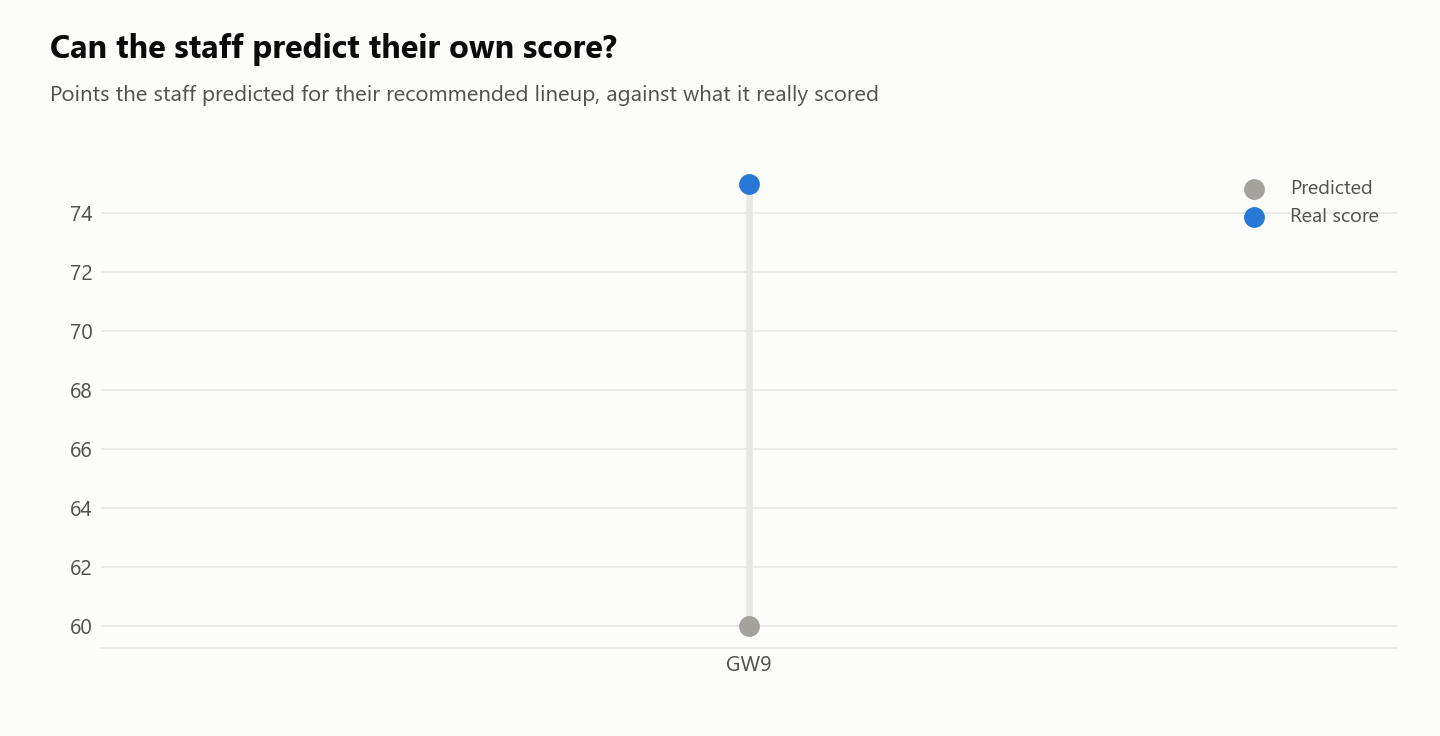
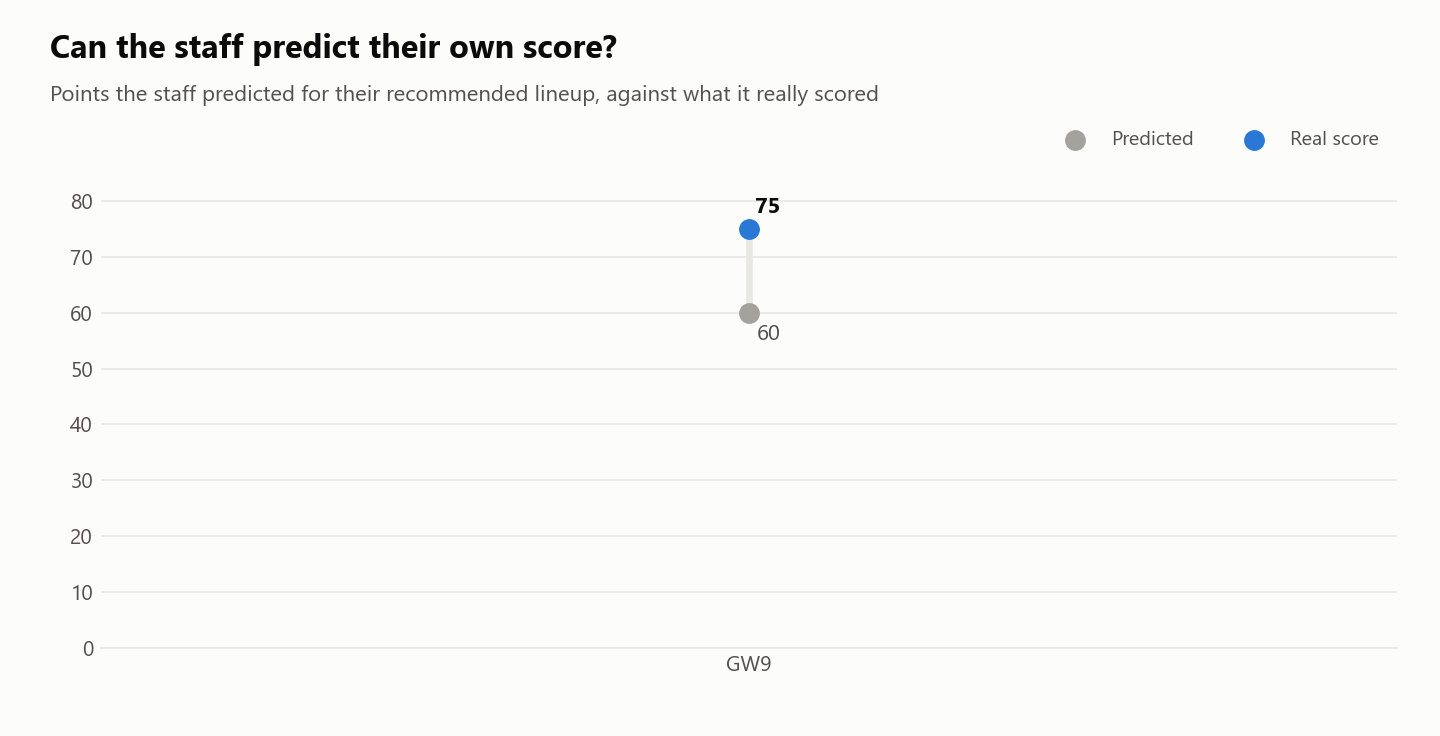
One combined score chart, charts with room to breathe, goals in plain words
Weeks are grouped as my own way or relying on the team. World ranks are no longer published.

diff --git a/export_results.py b/export_results.py
@@ -5,11 +5,11 @@ The system itself runs in a private working folder; this repository is the
 public copy. Each week, after the review run has scored the gameweek, this
 script reads that folder (read-only) and rewrites:
 
-    results/weekly.csv                 points, score /10, top-100 and world average, rank
+    results/weekly.csv                 points, score /10, top-100 and world average
     results/staff_vs_baseline.csv      staff's recommended lineup v what I played v doing nothing
     results/league_gaps.csv            the gap to each rival team after every gameweek
     results/forecasts.csv              the staff's predicted points v the real score (from GW9)
-    results/goals.csv                  each week's two goals, met or missed (from GW10)
+    results/goals.csv                  each week's two goals in plain words, met or missed
     results/*.png                      the charts in the README
     README.md                          the Findings section, between the RESULTS markers
 
@@ -97,21 +97,17 @@ def _team_names(text: str) -> str:
 
 
 def goals() -> list[dict]:
-    """Each week's two goals from the private season plan, with real names swapped for team names."""
-    text = (LIVE / "season_plan.md").read_text(encoding="utf-8")
-    if "## 6. Weekly goals" not in text:
+    """Each played week's two goals in plain words, from the short file the review writes.
+
+    Real names are swapped for team names. A week appears only once it has a result.
+    """
+    path = LIVE / "goals_public.json"
+    if not path.exists():
         return []
-    block = text[text.index("## 6. Weekly goals"):]
-    rows = []
-    for line in block.splitlines()[1:]:
-        if line.startswith("## "):
-            break
-        cells = [c.strip() for c in line.strip().strip("|").split("|")]
-        # A week with no result yet has not been played: it is neither shown nor counted.
-        if len(cells) >= 4 and _first_int(cells[0]) is not None and "---" not in line and cells[3]:
-            rows.append({"gw": _first_int(cells[0]), "goal_1": _team_names(cells[1]),
-                         "goal_2": _team_names(cells[2]), "result": _team_names(cells[3])})
-    return rows
+    data = json.loads(path.read_text(encoding="utf-8"))
+    return [{"gw": int(gw), "goal": _team_names(g["goal"]), "met": bool(g["met"]),
+             "result": _team_names(g.get("result", ""))}
+            for gw in sorted(data, key=int) for g in data[gw]]
 
 
 def advice_use() -> dict[int, str]:
@@ -199,11 +195,10 @@ def chart_score(plt, weeks: list[dict], use: dict[int, str]) -> None:
     """Score out of 10, grouped by whether I played the staff's advice."""
     fig, ax = _frame(plt, "Did I do better when I used the AI's advice?",
                      "Score out of 10 = the share of all ~11 million FPL managers I beat that gameweek")
-    groups = [("No advice yet", "none", PRE), ("Used the advice", "used", BLUE),
-              ("Went my own way", "own", ORANGE)]
+    groups = [("Went my own way", ("none", "own"), ORANGE), ("Relied on the team", ("used",), BLUE)]
     x, ticks, labels = 0.0, [], []
     for title, key, col in groups:
-        wk = [w for w in weeks if use.get(w["gw"], "none") == key]
+        wk = [w for w in weeks if use.get(w["gw"], "none") in key]
         if not wk:
             continue
         xs = [x + i for i in range(len(wk))]
@@ -217,19 +212,18 @@ def chart_score(plt, weeks: list[dict], use: dict[int, str]) -> None:
         ax.hlines(m, xs[0] - 0.42, xs[-1] + 0.42, colors=INK, linestyles=(0, (4, 3)),
                   linewidth=1.3, zorder=4)
         mid = (xs[0] + xs[-1]) / 2
-        ax.text(mid, 10.25, title, ha="center", fontsize=10, color=col if key != "none" else MUTED,
-                fontweight="bold")
-        ax.text(mid, 9.65, f"average {m:.1f}  ·  {len(wk)} week{'s' if len(wk) > 1 else ''}",
+        ax.text(mid, 12.5, title, ha="center", fontsize=10, color=col, fontweight="bold")
+        ax.text(mid, 11.75, f"average {m:.1f}  ·  {len(wk)} week{'s' if len(wk) > 1 else ''}",
                 ha="center", fontsize=9, color=MUTED)
         ticks += xs
         labels += [f"GW{w['gw']}" for w in wk]
         x = xs[-1] + 1.9
     ax.set_xticks(ticks, labels)
-    ax.set_ylim(0, 10.9)
-    ax.set_yticks([0, 2, 4, 6, 8])
+    ax.set_ylim(0, 13.2)              # bars and their labels stop at 11; the headings sit above that
+    ax.set_yticks([0, 2, 4, 6, 8, 10])
     ax.set_xlim(-0.7, x - 1.2)
-    fig.text(0.035, 0.03, "Used = my team matched a staff lineup to within one player, same captain. "
-             "Dashed line = the group's average.", fontsize=8.5, color=MUTED)
+    fig.text(0.035, 0.03, "Relied on the team = within one player of a staff lineup, same captain. "
+             "My own way includes GW1-3. Dashed line = average.", fontsize=8.5, color=MUTED)
     _save(fig, "score_by_advice.png")
     plt.close(fig)
 
@@ -250,14 +244,15 @@ def chart_staff(plt, staff: list[dict]) -> None:
             ax.text(b.get_x() + b.get_width() / 2, y, f"{v:+d}" if v else "0", ha="center",
                     va="bottom" if v >= 0 else "top", fontsize=9, color=INK)
     ax.axhline(0, color=MUTED, linewidth=1, zorder=4)
-    ax.text(gws[-1] + 0.55, 0, "doing\nnothing", va="center", fontsize=8.5, color=MUTED)
+    ax.text(gws[-1] + 0.55, 0, "doing\nnothing", va="center", fontsize=8.5, color=MUTED, zorder=5,
+            bbox=dict(boxstyle="square,pad=0.15", facecolor=SURFACE, edgecolor="none"))
     lo, hi = min(s + m), max(s + m)
-    ax.set_ylim(min(lo - 4, -5), hi + 5)
+    ax.set_ylim(min(lo - 4, -5), hi + max(5, 0.12 * (hi - lo)))
     ax.set_xlim(gws[0] - 0.6, gws[-1] + 0.95)
     ax.set_xticks(gws, [f"GW{g}" for g in gws])
     ts, tm = sum(s), sum(m)
-    ax.legend(frameon=False, loc="upper right", fontsize=9, labelcolor=MUTED, ncols=2,
-              bbox_to_anchor=(1.0, 1.02))
+    fig.legend(*ax.get_legend_handles_labels(), frameon=False, loc="center right", fontsize=9,
+               labelcolor=MUTED, ncols=2, bbox_to_anchor=(0.97, 0.81))
     fig.text(0.035, 0.825, f"Total: staff {ts:+d} points · me {tm:+d} points", fontsize=10,
              color=INK, va="top", fontweight="bold")
     _save(fig, "staff_vs_doing_nothing.png")
@@ -326,7 +321,17 @@ def chart_forecasts(plt, rows: list[dict]) -> None:
         ax.plot([r["gw"], r["gw"]], [r["predicted"], r["actual"]], color=GRID, linewidth=3, zorder=2)
     ax.scatter(gws, [r["predicted"] for r in rows], s=70, color=FAINT, zorder=3, label="Predicted")
     ax.scatter(gws, [r["actual"] for r in rows], s=70, color=BLUE, zorder=4, label="Real score")
-    ax.legend(frameon=False, loc="upper right", fontsize=9, labelcolor=MUTED)
+    for r in rows:
+        above = r["actual"] >= r["predicted"]
+        ax.text(r["gw"] + 0.03, r["actual"] + (2 if above else -2), str(r["actual"]), ha="center",
+                va="bottom" if above else "top", fontsize=10, color=INK, fontweight="bold")
+        ax.text(r["gw"] + 0.03, r["predicted"] + (-2 if above else 2), str(r["predicted"]), ha="center",
+                va="top" if above else "bottom", fontsize=10, color=MUTED)
+    vals = [r["predicted"] for r in rows] + [r["actual"] for r in rows]
+    ax.set_ylim(min(0, min(vals) - 10), max(vals) + 12)
+    ax.set_xlim(min(gws) - 1, max(gws) + 1)
+    fig.legend(*ax.get_legend_handles_labels(), frameon=False, loc="center right", fontsize=9,
+               labelcolor=MUTED, ncols=2, bbox_to_anchor=(0.97, 0.81))
     ax.set_xticks(gws, [f"GW{g}" for g in gws])
     _save(fig, "forecasts.png")
     plt.close(fig)
@@ -351,10 +356,10 @@ def findings(staff, weeks, gaps, fc, gl, use) -> str:
     out = [f"*Updated after GW{weeks[-1]['gw']}. The AI staff started advising in GW{STAFF_FROM}.*", "",
            "### 1. Did I do better when I used the AI's advice?", "",
            "![Score out of 10, by whether I used the advice](results/score_by_advice.png)", ""]
-    if by["used"] and by["own"]:
-        out += lines(f"Weeks I used the advice: **{avg(by['used']):.1f}/10** on average ({used_n} weeks).",
-                     f"Weeks I went my own way: **{avg(by['own']):.1f}/10** ({own_n} weeks).",
-                     f"Before there was any advice: **{avg(by['none']):.1f}/10**.",
+    mine = by["none"] + by["own"]
+    if by["used"] and mine:
+        out += lines(f"Weeks I relied on the team: **{avg(by['used']):.1f}/10** on average ({used_n} weeks).",
+                     f"Weeks I went my own way: **{avg(mine):.1f}/10** ({len(mine)} weeks, including GW1-3).",
                      "With this few weeks, one good or bad week moves an average a lot.")
     out += ["", "### 2. Does the advice beat doing nothing?", "",
             "![Points gained against doing nothing](results/staff_vs_doing_nothing.png)", ""]
@@ -379,10 +384,11 @@ def findings(staff, weeks, gaps, fc, gl, use) -> str:
                      "This section will compare each forecast with the real score.")
     out += ["", "### 5. Do we reach the goals we set?", ""]
     if gl:
-        met = sum(1 for g in gl for r in [g["result"].lower()] if "met" in r and "missed" not in r)
-        out += [f"Weekly goals met so far: **{met} of {len(gl)}** weeks.", "",
-                "| GW | Goal 1 | Goal 2 | Result |", "|---|---|---|---|"]
-        out += [f"| {g['gw']} | {g['goal_1']} | {g['goal_2']} | {g['result'] or '-'} |" for g in gl]
+        out += [f"Goals met so far: **{sum(g['met'] for g in gl)} of {len(gl)}**."]
+        for gw in sorted({g["gw"] for g in gl}):
+            out += ["", f"**GW{gw}**", ""]
+            out += [f"- **{'Met' if g['met'] else 'Missed'}:** {g['goal'].rstrip('.')}"
+                    + (f" ({g['result']})." if g["result"] else ".") for g in gl if g["gw"] == gw]
     else:
         out += lines("*Coming soon - from GW10.*",
                      "Each planning run sets two checkable goals for the week, for example "
@@ -410,8 +416,9 @@ def main(argv: list[str]) -> int:
     staff, weeks, gaps, fc, gl = staff_record(), benchmark_weeks(), league_gaps(), forecasts(), goals()
     use, chips = advice_use(), chips_by_week()
     write_csv(OUT / "staff_vs_baseline.csv", staff)
+    # No world ranks: an exact rank leads to the entry, and from there to the league and the friends.
     write_csv(OUT / "weekly.csv", [{k: w[k] for k in ("gw", "points", "score10", "top100", "vs_top100",
-                                                       "average", "vs_average", "gw_rank", "overall_rank")}
+                                                       "average", "vs_average")}
                                     for w in weeks])
     write_csv(OUT / "league_gaps.csv", gaps)
     write_csv(OUT / "forecasts.csv", fc)

diff --git a/README.md b/README.md
@@ -20,9 +20,8 @@ That way the question above gets a measured answer instead of a feeling.
 
 ![Score out of 10, by whether I used the advice](results/score_by_advice.png)
 
-Weeks I used the advice: **4.7/10** on average (2 weeks).  
-Weeks I went my own way: **7.1/10** (4 weeks).  
-Before there was any advice: **4.0/10**.  
+Weeks I relied on the team: **4.7/10** on average (2 weeks).  
+Weeks I went my own way: **5.8/10** (7 weeks, including GW1-3).  
 With this few weeks, one good or bad week moves an average a lot.
 
 ### 2. Does the advice beat doing nothing?
@@ -48,11 +47,12 @@ The real score landed inside the staff's best-to-worst range in **1 of 1** weeks
 
 ### 5. Do we reach the goals we set?
 
-Weekly goals met so far: **1 of 1** weeks.
+Goals met so far: **2 of 2**.
 
-| GW | Goal 1 | Goal 2 | Result |
-|---|---|---|---|
-| 9 | The FH XI beats the BALANCED XI by 6 or more (`outcome.py`, chip applied) | Gain 3 or more on Rookie mistakes, AND on at least one of Nott'm Random Forest or Wei & Dudley | 1 **MET** (82 v BALANCED 32 as drawn / 41 with the auto-sub: +50 / +41) · 2 **MET** (+3 Rookie mistakes, exactly the bar; +31 Nott'm Random Forest, +12 Wei & Dudley) |
+**GW9**
+
+- **Met:** My Free Hit team beats the staff's lineup by 6 points or more (won by 41).
+- **Met:** Gain 3 points or more on Rookie mistakes and on at least one other friend (gained 3, plus 31 and 12 on the others).
 <!-- RESULTS:END -->
 
 ## How it works
